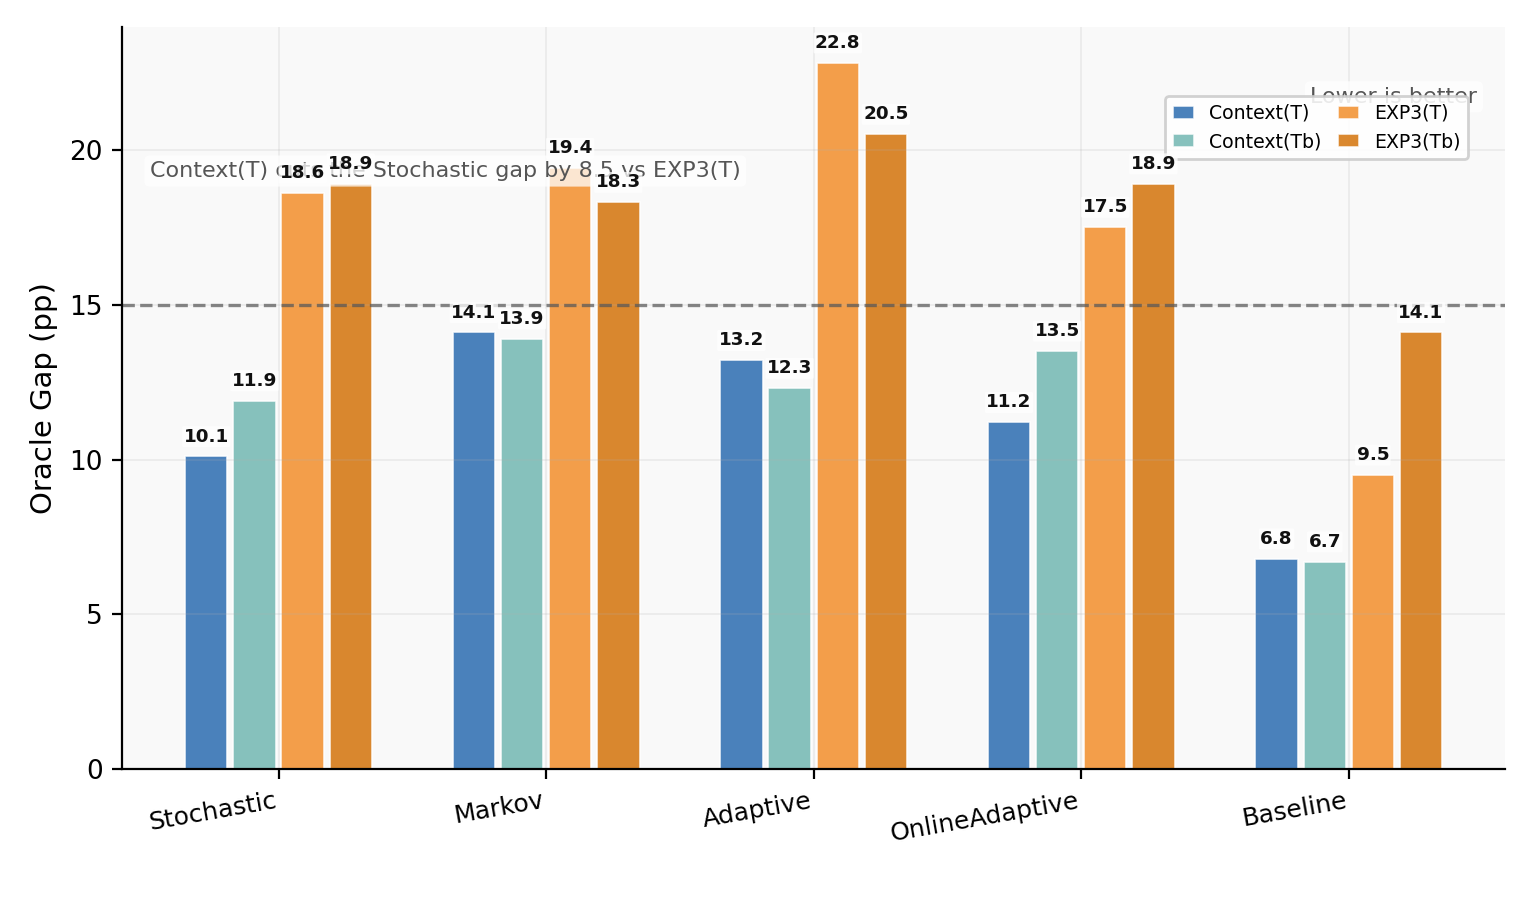
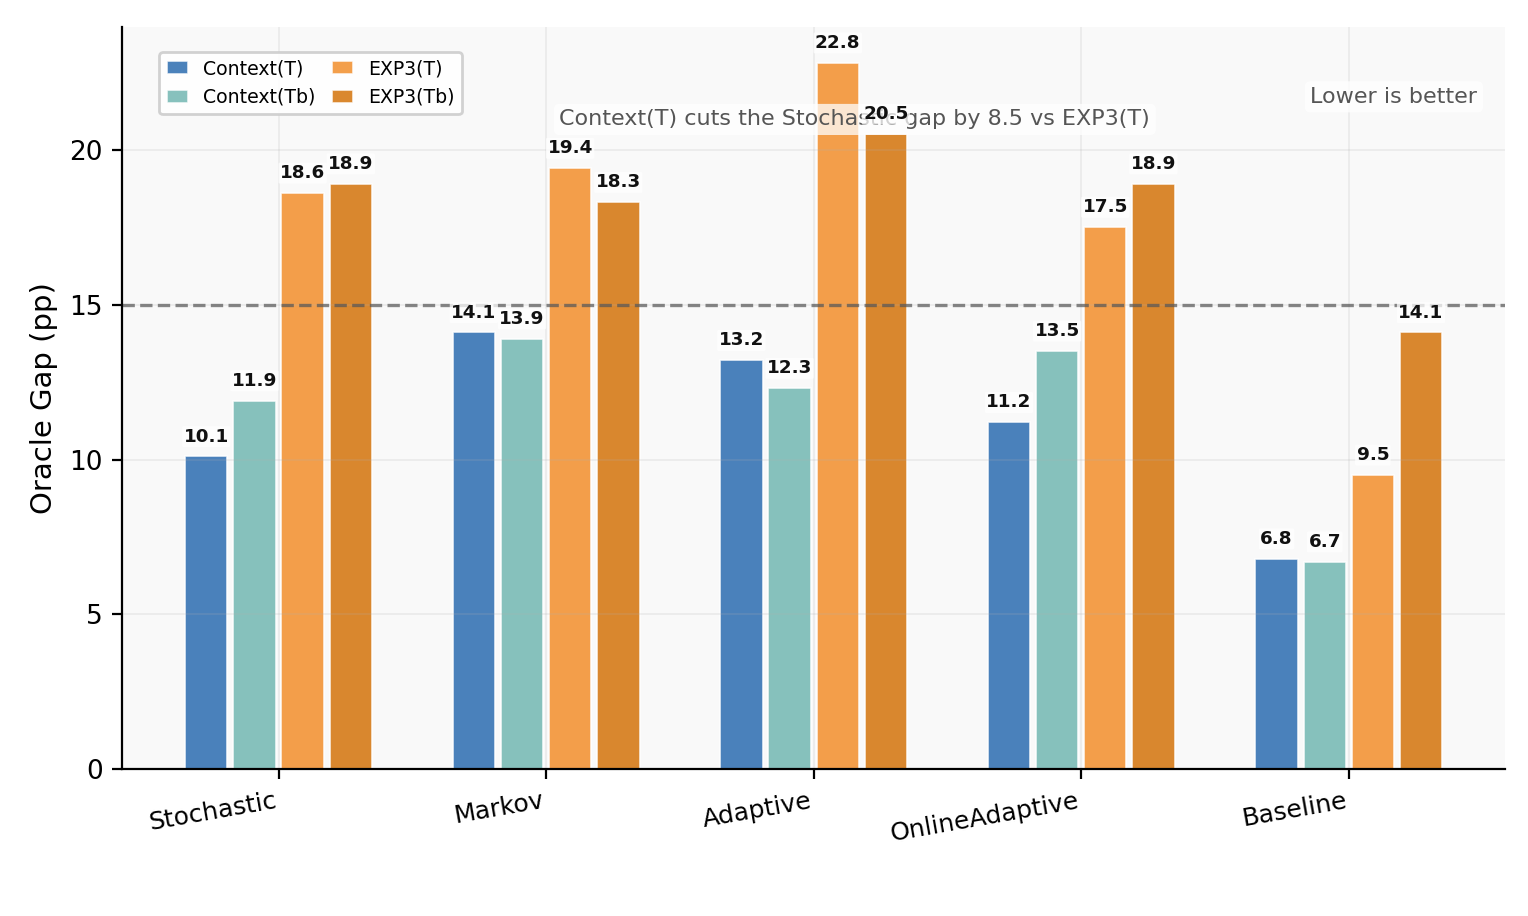
Adjust context gap figure labels

diff --git a/figures/icnp-exported-assets/build_G8_G9.py b/figures/icnp-exported-assets/build_G8_G9.py
@@ -361,9 +361,9 @@ def draw_oracle_gap_panel(ax, *, include_panel_label=True):
     ax.axhline(15,color=C['THRESH'],ls='--',lw=1.2,alpha=0.7)
     ax.set_xticks(x3); ax.set_xticklabels(SCEN_ORDER,fontsize=9,rotation=10,ha='right')
     ax.set_ylabel('Oracle Gap (pp)')
-    ax.legend(fontsize=6.8,ncol=2,frameon=True,framealpha=0.88,loc='upper right',bbox_to_anchor=(0.98,0.92),columnspacing=0.9,handlelength=1.1)
+    ax.legend(fontsize=6.8,ncol=2,frameon=True,framealpha=0.88,loc='upper left',bbox_to_anchor=(0.02,0.98),columnspacing=0.9,handlelength=1.1)
     ax.set_facecolor('#f9f9f9')
-    ax.text(0.02,0.82,'Context(T) cuts the Stochastic gap by 8.5 vs EXP3(T)',transform=ax.transAxes,ha='left',va='top',fontsize=8,color='#555',bbox=dict(boxstyle='round,pad=0.25',facecolor='white',alpha=0.75,edgecolor='none'))
+    ax.text(1.05,20.65,'Context(T) cuts the Stochastic gap by 8.5 vs EXP3(T)',ha='left',va='bottom',fontsize=8,color='#555',bbox=dict(boxstyle='round,pad=0.25',facecolor='white',alpha=0.75,edgecolor='none'))
     ax.text(0.98,0.92,'Lower is better',transform=ax.transAxes,ha='right',va='top',fontsize=8,color='#555',bbox=dict(boxstyle='round,pad=0.25',facecolor='white',alpha=0.75,edgecolor='none'))
     if include_panel_label:
         panel_label(ax,'C','Oracle Gap: Context vs EXP3 by Scenario & Capacity')
